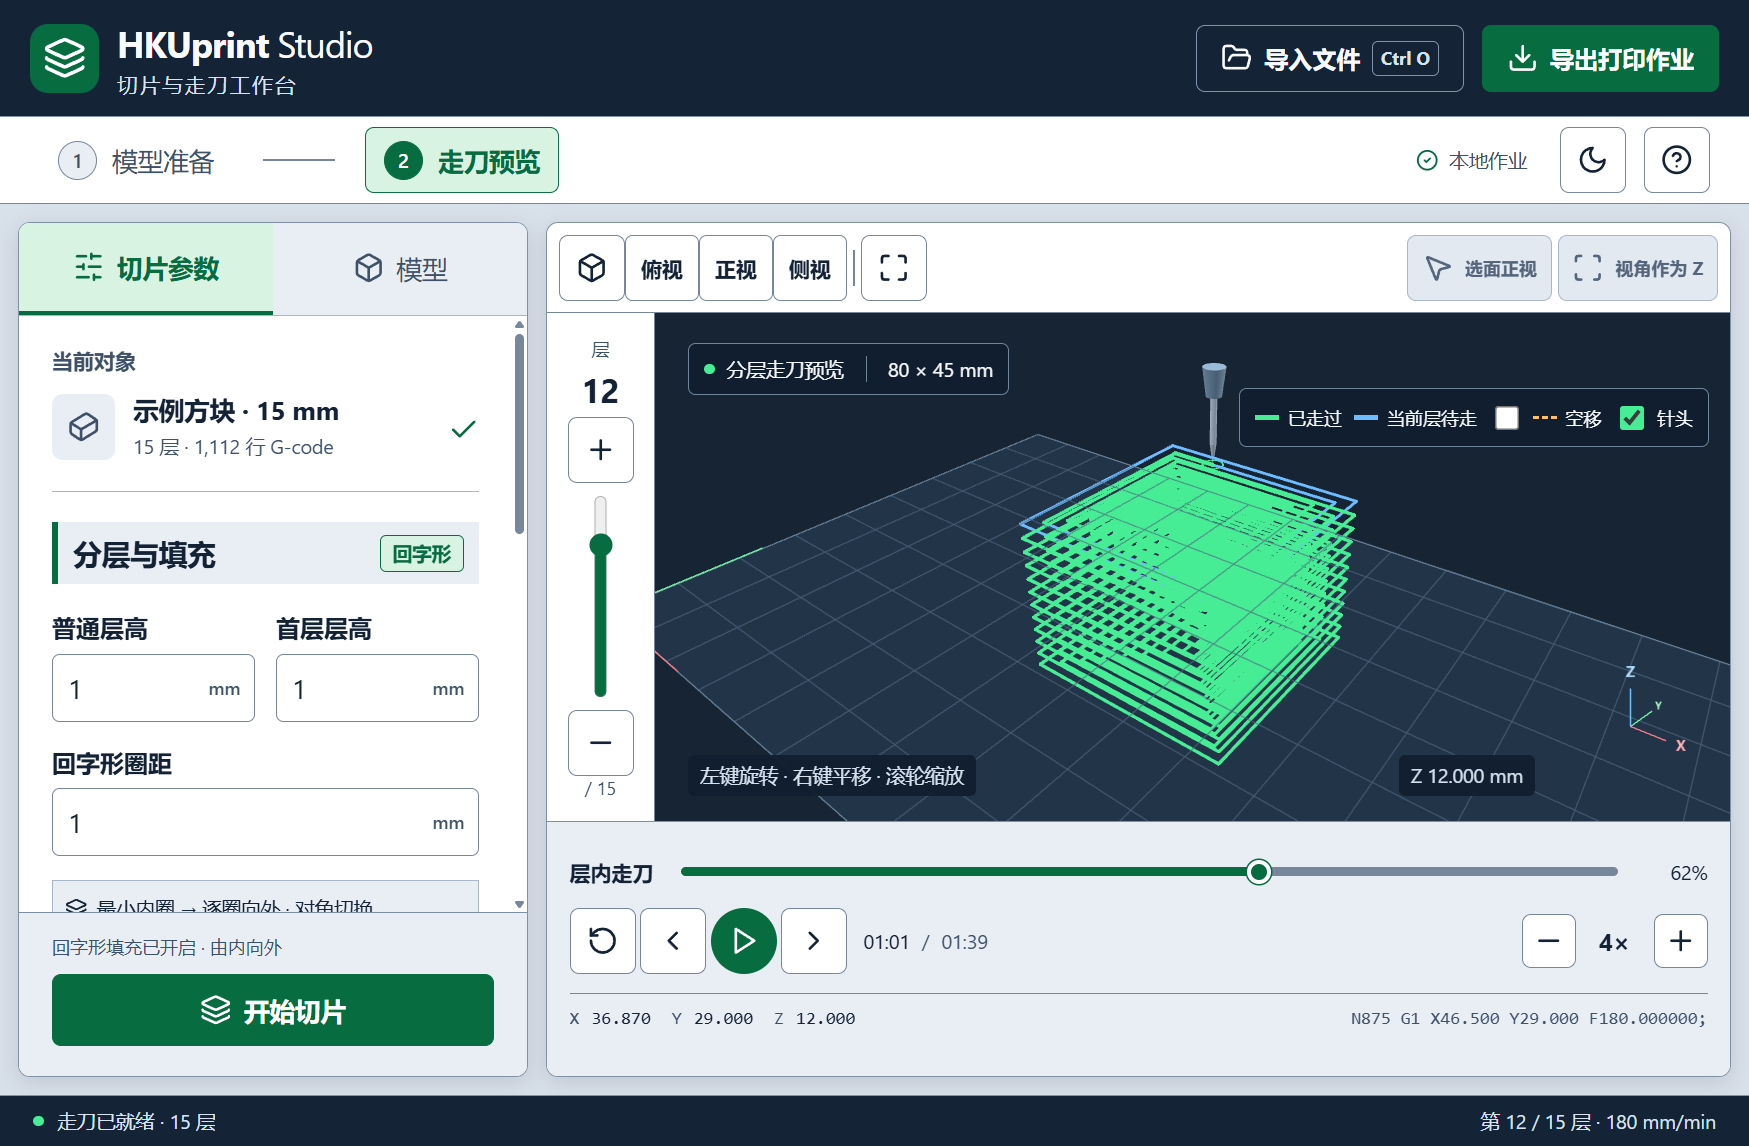
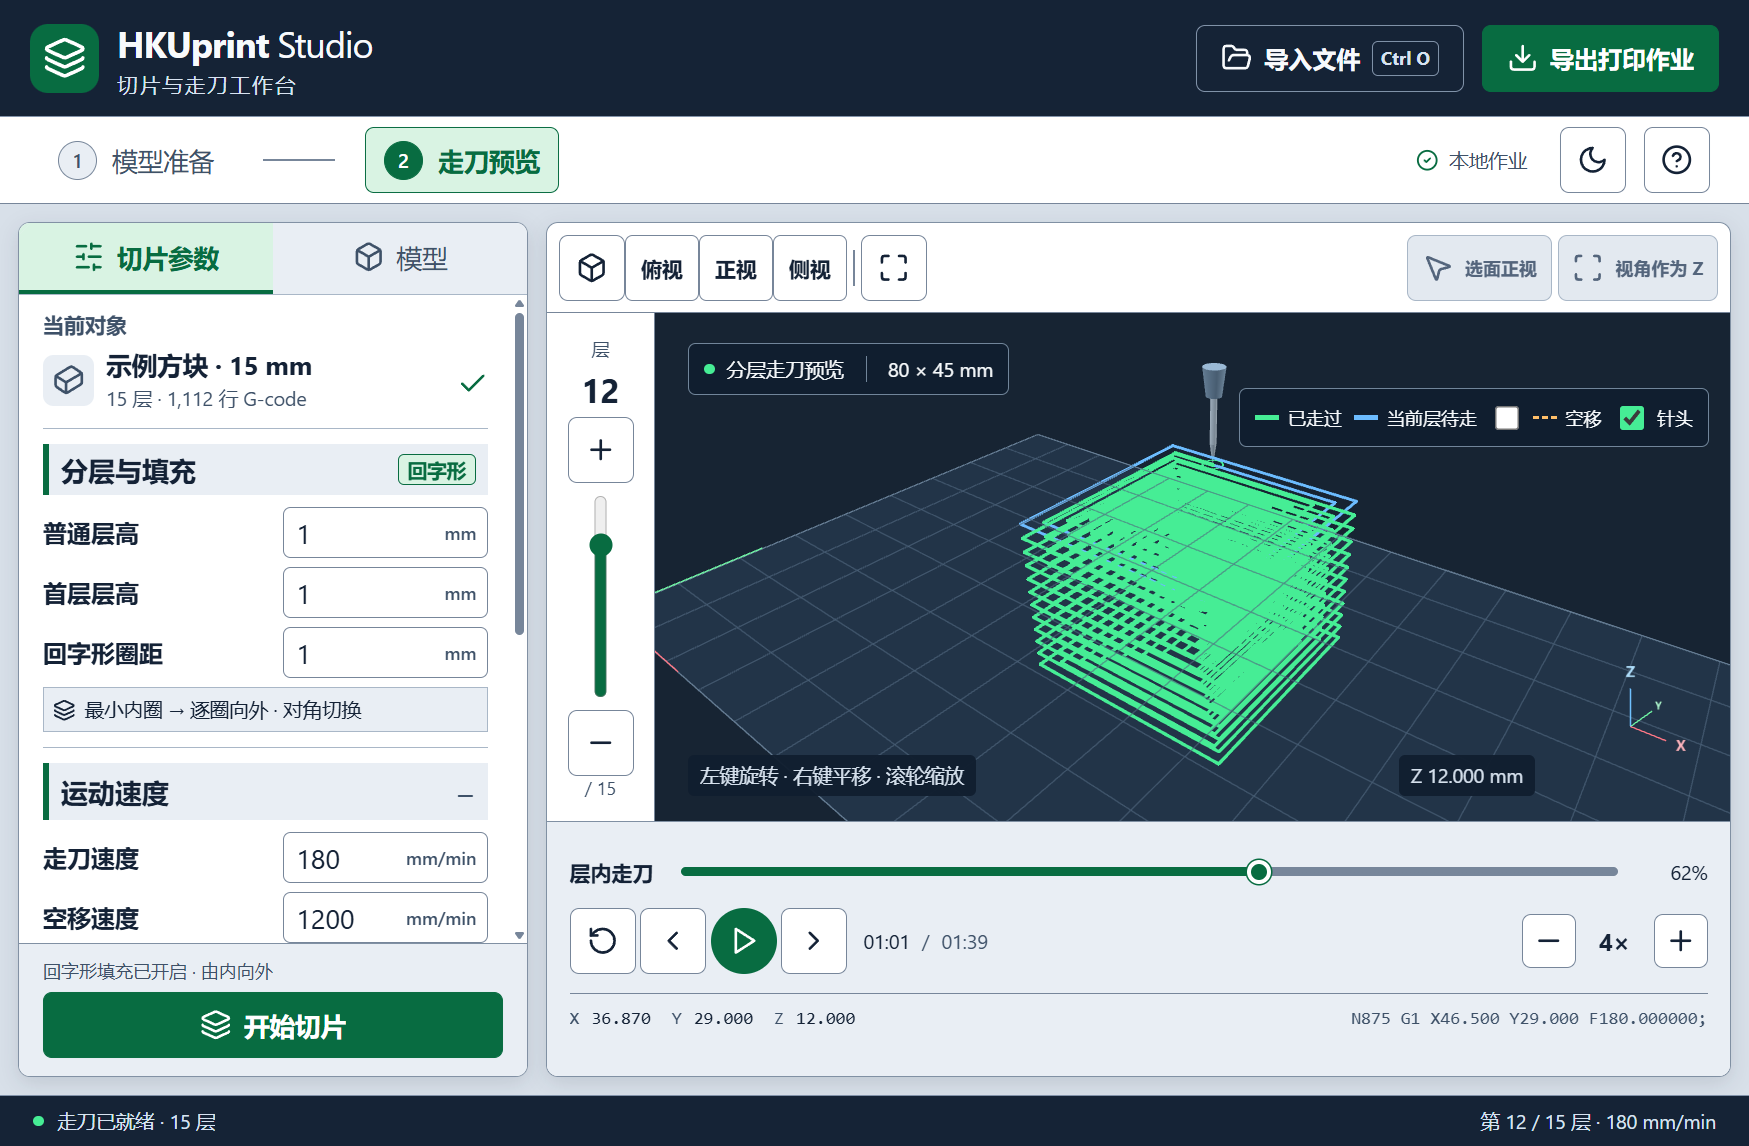
压缩切片参数布局，保留大字体并更新界面截图

diff --git a/electron/src/style.css b/electron/src/style.css
@@ -130,6 +130,37 @@ select { width: 100%; min-height: 44px; padding: 8px; border: 1px solid var(--bo
 .dimensions { display: grid; grid-template-columns: repeat(3, 1fr); gap: 12px; }
 .dimensions span { display: block; font-size: 13px; color: var(--muted); margin-bottom: 6px; }
 .dimensions strong { font-size: 18px; }
+/* Compact desktop settings: labels and values share one row. */
+.sidebar-tabs button { padding: 11px 8px; }
+.sidebar-scroll { padding: 0 16px; scroll-padding: 8px; }
+.sidebar .section-caption { margin-bottom: 6px; }
+.sidebar .file-section { padding: 10px 0; }
+.sidebar .object-row { gap: 8px; }
+.sidebar .object-icon { width: 34px; height: 34px; }
+.sidebar .object-row div > span { margin-top: 2px; }
+.sidebar .setting-section { padding: 10px 0; }
+.sidebar .setting-section > h2, .sidebar .setting-section > summary { padding: 5px 8px; font-size: 18px; }
+.sidebar .setting-section > h2, .sidebar details[open] summary { margin-bottom: 8px; }
+.sidebar .section-tag { padding: 1px 6px; }
+.sidebar .field-grid { grid-template-columns: minmax(0, 1fr); gap: 6px; margin-bottom: 6px; }
+.sidebar .field-grid:last-child { margin-bottom: 0; }
+.sidebar .field { display: grid; grid-template-columns: minmax(0, 1fr) minmax(132px, 46%); align-items: center; column-gap: 10px; margin-bottom: 6px; }
+.sidebar .field:last-child, .sidebar .field-grid .field { margin-bottom: 0; }
+.sidebar .field label { margin: 0; line-height: 1.4; }
+.sidebar .input-shell { min-height: 34px; }
+.sidebar .input-shell input { height: 32px; padding: 4px 8px; }
+.sidebar .input-shell > span { padding-right: 7px; }
+.sidebar .field-error { grid-column: 1 / -1; margin-top: 3px; }
+.sidebar .path-rule { padding: 4px 6px; margin-top: 6px; }
+.sidebar .select-label { margin-bottom: 4px; }
+.sidebar select { min-height: 34px; padding: 5px 8px; margin-bottom: 8px; }
+.sidebar .check-row { margin-top: 6px; min-height: 26px; }
+.sidebar .helper { margin-top: 8px; line-height: 1.5; }
+.sidebar .job-section { padding: 12px 0; }
+.sidebar .job-stats { gap: 10px 16px; }
+.sidebar .sidebar-action { padding: 10px 16px 12px; }
+.sidebar .sidebar-action p { margin-bottom: 6px; }
+.sidebar .sidebar-action .button { min-height: 44px; padding: 7px 12px; }
 .preview { min-width: 0; min-height: 0; display: grid; grid-template-rows: 62px minmax(0, 1fr) 172px; overflow: hidden; border: 1px solid var(--panel-border); border-radius: 8px; box-shadow: var(--shadow); background: var(--surface); }
 .viewport-toolbar { display: flex; align-items: center; justify-content: space-between; padding: 0 12px; border-bottom: 1px solid var(--border); gap: 8px; }
 .view-presets, .view-tools { display: flex; align-items: center; gap: 4px; }

diff --git a/electron/DESIGN.md b/electron/DESIGN.md
@@ -8,6 +8,7 @@
 - 主要操作使用绿色，三维预览中的亮绿色表示已完成走刀，蓝色表示待走路径，琥珀色虚线表示空移。图例与渲染器共用 CSS 配色变量，所有功能色都有文字说明。
 - 中文使用本机微软雅黑 / Segoe UI，不依赖网络字体。基础字号 18px，输入值 18px，主要按钮 17px，辅助状态信息 12–14px。
 - 左侧设置区域约占宽度 27%，最小 340px；按分层填充、运动、曝光和工作区分组。
+- 参数采用紧凑的单行布局，名称在左、数值与单位在右；输入框高 34px，行间距 6px，分组上下内边距 10px。标签为 16px、输入值为 18px，参数错误在对应行下方显示。
 - 层滑块位于预览左侧，当前层进度位于下方。两个滑块均支持键盘，并有按钮或单步操作作为替代。
 - 文件导入、切片、导出明确显示处理中状态；参数变化使旧切片失效，重新切片后允许导出。
 - 切片在 Python 子进程执行，G-code 在 Web Worker 解析。GPU 路径缓存按显示数量更新；静止时按需绘制。
